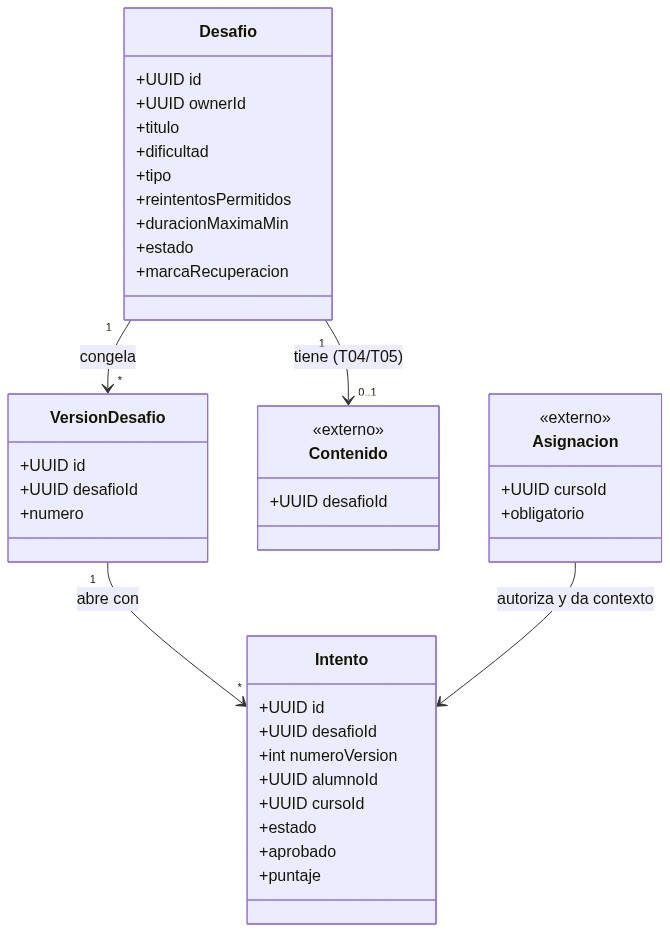
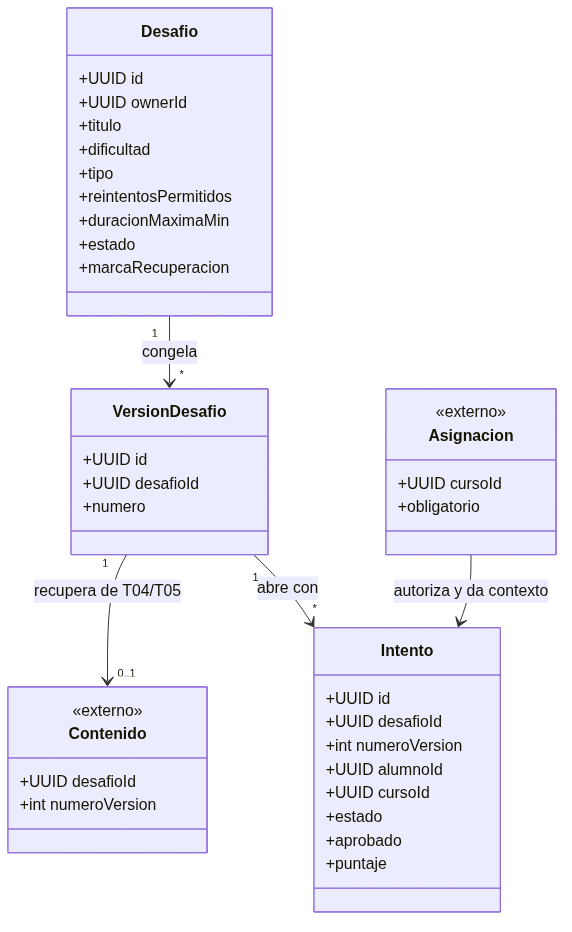
Update roadmap and challenge integration documentation

diff --git a/docs/resumen.html b/docs/resumen.html
@@ -250,9 +250,9 @@
           <thead><tr><th>Grupo</th><th>El grupo entrega al Motor</th><th>El Motor entrega al grupo</th><th>Canal</th><th>Contrato</th></tr></thead>
           <tbody>
             <tr><td>Gateway / Identidad <small>T01</small></td><td>Token validado, identidad y contexto</td><td>Respuestas REST del Motor</td><td>REST a través del Gateway</td><td><details class="dependency-contract"><summary><span class="status ok">Definido</span><span class="contract-action">Ver contrato</span></summary><div class="contract-detail"><p><span class="contract-label">Responsabilidad</span>Valida autenticidad y vigencia del token. Propaga el contexto sin decidir la elegibilidad académica.</p><p><span class="contract-label">Rutas del Motor</span><code>POST /desafios</code>, <code>GET /desafios</code>, <code>PATCH /desafios/{desafioId}</code>, <code>POST /intentos</code>, <code>GET /intentos/{intentoId}</code> y <code>POST /intentos/{intentoId}/entrega</code>.</p><p>Las llamadas sincrónicas entre servicios también pasan por el Gateway.</p></div></details></td></tr>
-            <tr><td>Roadmap y Progreso <small>T10</small></td><td>Elegibilidad, fechas, obligatoriedad y recuperación</td><td>Catálogo publicado y <code>INTENTO_FINALIZADO</code></td><td>REST + Kafka</td><td><details class="dependency-contract"><summary><span class="status ok">Definido</span><span class="contract-action">Ver contrato</span></summary><div class="contract-detail"><p><span class="contract-label">Motor consulta</span><code>GET /elegibilidad</code> con <code>alumnoId</code>, <code>desafioId</code> y <code>cursoId</code>. Recibe habilitación, desbloqueo, fechas, obligatoriedad, recuperación y motivo de rechazo.</p><p><span class="contract-label">Motor entrega</span><code>GET /desafios?estado=PUBLICADO</code> y el evento <code>INTENTO_FINALIZADO</code>. Roadmap aplica XP, vidas, progreso, ranking y reintentos.</p><p>La clave funcional del resultado es <code>intentoId</code>.</p></div></details></td></tr>
-            <tr><td>Teóricos <small>T04</small></td><td>Corrección de entregas teóricas</td><td>Referencia de versión y entrega</td><td>REST a través del Gateway</td><td><details class="dependency-contract"><summary><span class="status ok">Definido</span><span class="contract-action">Ver contrato</span></summary><div class="contract-detail"><p><span class="contract-label">Corrección</span>El Motor envía <code>intentoId</code>, desafío, versión, alumno, curso y entrega. T04 devuelve <code>estadoCorreccion</code>, <code>aprobado</code> y <code>puntaje</code>.</p><p>T04 corrige contra la versión recibida, no contra la vigente.</p></div></details></td></tr>
-            <tr><td>Prácticos <small>T05</small></td><td>Corrección de entregas prácticas</td><td>Referencia de versión y entrega</td><td>REST a través del Gateway</td><td><details class="dependency-contract"><summary><span class="status ok">Definido</span><span class="contract-action">Ver contrato</span></summary><div class="contract-detail"><p><span class="contract-label">Corrección</span>El Motor envía <code>intentoId</code>, desafío, versión, alumno, curso y entrega. T05 devuelve <code>estadoCorreccion</code>, <code>aprobado</code> y <code>puntaje</code>.</p><p>T05 puede mediar la ejecución en Sandbox, pero el Motor solo recibe la corrección.</p></div></details></td></tr>
+            <tr><td>Roadmap y Progreso <small>T10</small></td><td>Elegibilidad, fechas, obligatoriedad y recuperación</td><td>Catálogo publicado y <code>INTENTO_FINALIZADO</code></td><td>REST + Kafka</td><td><details class="dependency-contract"><summary><span class="status ok">Definido</span><span class="contract-action">Ver contrato</span></summary><div class="contract-detail"><p><span class="contract-label">Roadmap decide</span><code>GET /elegibilidad</code> con <code>alumnoId</code>, <code>desafioId</code> y <code>cursoId</code>. Devuelve habilitación, motivo, desbloqueo, fechas, obligatoriedad y recuperación. La pantalla puede anticipar esta consulta, pero el Motor vuelve a hacerla al abrir.</p><p><span class="contract-label">Motor entrega</span><code>GET /desafios?estado=PUBLICADO</code> y el evento <code>INTENTO_FINALIZADO</code>. Roadmap aplica XP, vidas, progreso, ranking y reintentos.</p><p>Cada <code>desafioId</code> se asigna una sola vez por roadmap.</p></div></details></td></tr>
+            <tr><td>Teóricos <small>T04</small></td><td>Contenido y corrección de entregas teóricas</td><td>Referencia de versión y entrega</td><td>REST a través del Gateway</td><td><details class="dependency-contract"><summary><span class="status ok">Definido</span><span class="contract-action">Ver contrato</span></summary><div class="contract-detail"><p><span class="contract-label">Apertura</span>El Motor recupera el contenido de la versión exacta y lo devuelve junto con el intento.</p><p><span class="contract-label">Corrección</span>El Motor envía <code>intentoId</code>, desafío, versión, alumno, curso y entrega. T04 devuelve <code>estadoCorreccion</code>, <code>aprobado</code> y <code>puntaje</code>.</p></div></details></td></tr>
+            <tr><td>Prácticos <small>T05</small></td><td>Contenido y corrección de entregas prácticas</td><td>Referencia de versión y entrega</td><td>REST a través del Gateway</td><td><details class="dependency-contract"><summary><span class="status ok">Definido</span><span class="contract-action">Ver contrato</span></summary><div class="contract-detail"><p><span class="contract-label">Apertura</span>El Motor recupera el contenido de la versión exacta y lo devuelve junto con el intento.</p><p><span class="contract-label">Corrección</span>El Motor envía <code>intentoId</code>, desafío, versión, alumno, curso y entrega. T05 devuelve <code>estadoCorreccion</code>, <code>aprobado</code> y <code>puntaje</code>.</p></div></details></td></tr>
             <tr><td>Evaluador IA <small>T07</small></td><td><code>SCORE_IA_CALCULADO</code></td><td>Referencia del intento y versión</td><td>Evento, mecanismo por confirmar</td><td><details class="dependency-contract"><summary><span class="status partial">Parcial</span><span class="contract-action">Ver contrato</span></summary><div class="contract-detail"><p><span class="contract-label">Motor recibe</span><code>SCORE_IA_CALCULADO</code> asociado a <code>intentoId</code>. La carga mínima incluye <code>scoreIA</code> y <code>timestamp</code>; <code>rubricVersion</code> y justificación están pendientes.</p><p><span class="contract-label">Después del cierre</span>El Motor actualiza el score y republica <code>INTENTO_FINALIZADO</code> con el mismo <code>intentoId</code>.</p><p>Topic, productor, envío de referencia y política de reintentos todavía deben acordarse con T07.</p></div></details></td></tr>
             <tr><td>Banco <small>T08</small></td><td>No envía solicitudes</td><td><code>INTENTO_FINALIZADO</code></td><td>Kafka</td><td><details class="dependency-contract"><summary><span class="status ok">Definido</span><span class="contract-action">Ver contrato</span></summary><div class="contract-detail"><p><span class="contract-label">Consumo</span>Recibe el sobre común de <code>INTENTO_FINALIZADO</code>, incluidos <code>cursoId</code>, <code>obligatorio</code>, estado y resultado.</p><p><span class="contract-label">Regla</span>Acredita solo si <code>estado=CERRADO</code> y <code>aprobado=true</code>. Ignora los intentos vencidos o no aprobados.</p><p>Aplica idempotencia por <code>intentoId</code>.</p></div></details></td></tr>
             <tr><td>Social y Notificaciones <small>T11</small></td><td>No envía solicitudes de negocio</td><td><code>DESAFIO_PUBLICADO</code> e <code>INTENTO_FINALIZADO</code></td><td>Kafka</td><td><details class="dependency-contract"><summary><span class="status ok">Definido</span><span class="contract-action">Ver contrato</span></summary><div class="contract-detail"><p><span class="contract-label">Consumo</span>Recibe <code>DESAFIO_PUBLICADO</code> al publicar y <code>INTENTO_FINALIZADO</code> al cerrar o vencer.</p><p><span class="contract-label">Regla</span>Decide plantilla, destinatarios y momento. La nota disponible se deriva de <code>INTENTO_FINALIZADO</code>; no hay un evento separado.</p><p>El Motor publica al menos una vez mediante outbox.</p></div></details></td></tr>
@@ -262,14 +262,15 @@
     </section>
 
     <section id="decisiones">
-      <div class="section-head"><h2>Decisiones del Motor</h2><span class="section-index">6 reglas</span></div>
+      <div class="section-head"><h2>Decisiones del Motor</h2><span class="section-index">7 reglas</span></div>
       <ol class="decision-list">
-        <li><span class="number">01</span><div><strong>Roadmap autoriza.</strong><p>Asignaciones, fechas, desbloqueos, vidas y reintentos quedan fuera de T03.</p></div></li>
-        <li><span class="number">02</span><div><strong>La versión se congela al abrir.</strong><p>Cada edición crea una versión nueva y el intento conserva la que recibió.</p></div></li>
-        <li><span class="number">03</span><div><strong>El reloj se frena al entregar.</strong><p>La demora del corrector o del evaluador no consume tiempo del alumno.</p></div></li>
-        <li><span class="number">04</span><div><strong>T03 no calcula recompensas.</strong><p>Roadmap decide XP y vidas. Banco decide monedas.</p></div></li>
-        <li><span class="number">05</span><div><strong>Un hecho, un evento.</strong><p><code>INTENTO_FINALIZADO</code> cubre cierres y vencimientos. No hay eventos separados para vidas o notas.</p></div></li>
-        <li><span class="number">06</span><div><strong>Kafka entrega al menos una vez.</strong><p>T03 usa outbox y los consumidores aplican idempotencia por <code>intentoId</code>.</p></div></li>
+        <li><span class="number">01</span><div><strong>Roadmap decide; el Motor exige.</strong><p>Asignaciones, fechas, desbloqueos, vidas y reintentos quedan fuera de T03.</p></div></li>
+        <li><span class="number">02</span><div><strong>El Motor entrega el contenido.</strong><p>Recupera de T04/T05 la versión exacta antes de crear el intento; el frontend no consulta al corrector.</p></div></li>
+        <li><span class="number">03</span><div><strong>La versión se congela al abrir.</strong><p>Cada edición crea una versión nueva y el intento conserva la que recibió.</p></div></li>
+        <li><span class="number">04</span><div><strong>El reloj se frena al entregar.</strong><p>La demora del corrector o del evaluador no consume tiempo del alumno.</p></div></li>
+        <li><span class="number">05</span><div><strong>T03 no calcula recompensas.</strong><p>Roadmap decide XP y vidas. Banco decide monedas.</p></div></li>
+        <li><span class="number">06</span><div><strong>Un hecho, un evento.</strong><p><code>INTENTO_FINALIZADO</code> cubre cierres y vencimientos. No hay eventos separados para vidas o notas.</p></div></li>
+        <li><span class="number">07</span><div><strong>Kafka entrega al menos una vez.</strong><p>T03 usa outbox y los consumidores aplican idempotencia por <code>intentoId</code>.</p></div></li>
       </ol>
     </section>
 
@@ -281,8 +282,8 @@
     G --&gt; M[Motor T03]
     M --&gt;|consulta elegibilidad| R[Roadmap]
     R --&gt;|contexto| M
-    M --&gt;|corrección| C[T04 / T05]
-    C --&gt;|resultado| M
+    M --&gt;|contenido y entrega| C[T04 / T05]
+    C --&gt;|contenido y corrección| M
     M --&gt;|hechos| K[(Kafka)]
     K --&gt; R
     K --&gt; B[Banco]
@@ -359,8 +360,8 @@
     <section id="contratos">
       <div class="section-head"><h2>Contratos de entrada y salida</h2></div>
       <div class="grid">
-        <article class="card"><span class="tag in">Entrada</span><h3>Roadmap autoriza</h3><p>Antes de abrir, devuelve habilitación, desbloqueo, fechas, obligatoriedad y contexto de recuperación. El Motor no guarda la asignación ni vidas.</p></article>
-        <article class="card"><span class="tag in">Entrada</span><h3>T04 / T05 corrigen</h3><p>Reciben entrega, intento, desafío y versión. Devuelven aprobado, puntaje y estado de corrección. El contenido permanece fuera del Motor.</p></article>
+        <article class="card"><span class="tag in">Entrada</span><h3>Roadmap decide</h3><p>Antes de abrir, devuelve habilitación, motivo, desbloqueo, fechas, obligatoriedad y contexto de recuperación. El Motor exige esa decisión y no guarda la asignación ni vidas.</p></article>
+        <article class="card"><span class="tag in">Entrada</span><h3>T04 / T05 entregan contenido y corrigen</h3><p>El Motor recupera el contenido exacto al abrir. Al entregar, los correctores reciben intento, desafío y versión, y devuelven el resultado. El contenido permanece fuera del Motor.</p></article>
         <article class="card"><span class="tag pending">Entrada parcial</span><h3>T07 puntúa IA</h3><p>Entrega un score asociado a <code>intentoId</code>. Puede llegar después del cierre; el nombre del evento y su esquema todavía se acuerdan.</p></article>
         <article class="card"><span class="tag out">Salida</span><h3>Roadmap consume hechos</h3><p><code>INTENTO_FINALIZADO</code> alimenta XP, progreso, vidas, ranking y desbloqueos. No existe evento de reintentos agotados.</p></article>
         <article class="card"><span class="tag out">Salida</span><h3>Banco acredita</h3><p>Usa el resultado aprobado, <code>cursoId</code> y <code>obligatorio</code> para su ledger. El Motor no calcula monedas ni envía ítems.</p></article>
@@ -373,19 +374,25 @@
 
       <article class="flow">
         <div class="flow-title"><h3>Crear y publicar un desafío</h3><span class="number">FLUJO 01</span></div>
-        <p class="flow-note">T03 crea la identidad y su primera versión. Luego publica la versión y avisa a los consumidores.</p>
+        <p class="flow-note">El frontend guarda los datos generales en T03 y el contenido en T04/T05 usando el mismo desafioId y número de versión. Luego T03 publica.</p>
         <pre class="mermaid">sequenceDiagram
     participant P as Profesor/Admin
     participant G as Gateway
     participant M as Motor
+    participant C as T04/T05
     participant K as Kafka
     participant R as Roadmap
     participant N as Notificaciones
     P-&gt;&gt;G: Crear desafío
     G-&gt;&gt;M: POST /desafios
     M--&gt;&gt;P: BORRADOR + desafioId + version 1
+    P-&gt;&gt;G: Guardar contenido con desafioId + version 1
+    G-&gt;&gt;C: PUT contenido de versión 1
+    C--&gt;&gt;P: Contenido guardado
     P-&gt;&gt;G: Solicitar publicación de versión 1
     G-&gt;&gt;M: POST /desafios/id/versiones/1/publicar
+    M-&gt;&gt;C: Validar contenido de versión 1
+    C--&gt;&gt;M: Disponible
     M-&gt;&gt;M: Activar versión 1
     M-&gt;&gt;K: DESAFIO_PUBLICADO
     K--&gt;&gt;N: Notificación
@@ -396,6 +403,7 @@
         <div class="sequence">
           <div class="step"><span class="actor">Profesor / Admin</span><span class="message"><span class="arrow">→</span>Crear desafío</span><span class="actor right">Motor</span></div>
           <div class="step"><span class="actor">Motor</span><span class="message reverse">BORRADOR + desafioId + versión 1 <span class="arrow">←</span></span><span class="actor right">Profesor / Admin</span></div>
+          <div class="step"><span class="actor">Profesor / Admin</span><span class="message"><span class="arrow">→</span>Guardar contenido con desafioId + versión 1</span><span class="actor right">T04 / T05</span></div>
           <div class="step"><span class="actor">Profesor / Admin</span><span class="message"><span class="arrow">→</span>Publicar versión 1</span><span class="actor right">Motor</span></div>
           <div class="step"><span class="actor">Motor</span><span class="message internal"><span class="arrow">·</span>Activar versión 1 <span class="arrow">·</span></span><span class="actor right">Motor</span></div>
           <div class="step"><span class="actor">Motor</span><span class="message"><span class="arrow">→</span>DESAFIO_PUBLICADO</span><span class="actor right">Kafka → T11</span></div>
@@ -411,18 +419,25 @@
     participant P as Profesor/Admin
     participant G as Gateway
     participant M as Motor
+    participant C as T04/T05
     P-&gt;&gt;G: Editar metadatos
     G-&gt;&gt;M: PATCH /desafios/id
     M-&gt;&gt;M: Crear revisión N+1 en BORRADOR
     M--&gt;&gt;P: desafioId + numeroVersion N+1
+    P-&gt;&gt;G: Guardar contenido de N+1
+    G-&gt;&gt;C: PUT contenido de N+1
+    C--&gt;&gt;P: Contenido guardado
     P-&gt;&gt;G: Solicitar publicación de versión N+1
     G-&gt;&gt;M: POST /desafios/id/versiones/N+1/publicar
+    M-&gt;&gt;C: Validar contenido de N+1
+    C--&gt;&gt;M: Disponible
     M-&gt;&gt;M: Activar N+1
     Note over M,P: Los intentos anteriores conservan su versión</pre>
         <div class="sequence">
           <div class="step"><span class="actor">Profesor / Admin</span><span class="message"><span class="arrow">→</span>Editar metadatos</span><span class="actor right">Motor</span></div>
           <div class="step"><span class="actor">Motor</span><span class="message internal"><span class="arrow">·</span>Crear revisión N+1 en borrador <span class="arrow">·</span></span><span class="actor right">Motor</span></div>
           <div class="step"><span class="actor">Motor</span><span class="message reverse">Devolver desafioId + versión N+1 <span class="arrow">←</span></span><span class="actor right">Profesor / Admin</span></div>
+          <div class="step"><span class="actor">Profesor / Admin</span><span class="message"><span class="arrow">→</span>Guardar contenido de N+1</span><span class="actor right">T04 / T05</span></div>
           <div class="step"><span class="actor">Profesor / Admin</span><span class="message"><span class="arrow">→</span>Publicar versión N+1</span><span class="actor right">Motor</span></div>
           <div class="step"><span class="actor">Motor</span><span class="message internal"><span class="arrow">·</span>Activar N+1; los intentos anteriores no cambian <span class="arrow">·</span></span><span class="actor right">Motor</span></div>
         </div>
@@ -430,12 +445,13 @@
 
       <article class="flow">
         <div class="flow-title"><h3>Abrir un intento autorizado</h3><span class="number">FLUJO 03</span></div>
-        <p class="flow-note">El Gateway autentica. Roadmap autoriza. El Motor congela <code>version_actual</code> y crea el intento, con idempotencia.</p>
+        <p class="flow-note">Roadmap decide si el alumno puede abrir. El Motor recupera el contenido exacto y solo entonces crea el intento e inicia el reloj.</p>
         <pre class="mermaid">sequenceDiagram
     participant A as Alumno
     participant G as Gateway
     participant M as Motor
     participant R as Roadmap
+    participant C as T04/T05
     A-&gt;&gt;G: desafioId, cursoId, clave
     G-&gt;&gt;M: POST /intentos + identidad
     M-&gt;&gt;G: Consultar elegibilidad
@@ -443,9 +459,12 @@
     R--&gt;&gt;G: Habilitación, fechas y contexto
     G--&gt;&gt;M: Respuesta de Roadmap
     alt Habilitado
-        M-&gt;&gt;M: Congelar version_actual
-        M-&gt;&gt;M: Crear intento ABIERTO
-        M--&gt;&gt;A: Intento abierto
+        M-&gt;&gt;G: Recuperar contenido de version_actual
+        G-&gt;&gt;C: GET contenido de la versión
+        C--&gt;&gt;G: Contenido exacto
+        G--&gt;&gt;M: Contenido exacto
+        M-&gt;&gt;M: Congelar versión y crear ABIERTO
+        M--&gt;&gt;A: Intento abierto + contenido
     else Rechazado
         M--&gt;&gt;A: Motivo de rechazo
     end</pre>
@@ -456,8 +475,9 @@
           <div class="step"><span class="actor">Gateway</span><span class="message"><span class="arrow">→</span>GET /elegibilidad</span><span class="actor right">Roadmap</span></div>
           <div class="step"><span class="actor">Roadmap</span><span class="message reverse">Habilitación, fechas, contexto <span class="arrow">←</span></span><span class="actor right">Gateway</span></div>
           <div class="step"><span class="actor">Gateway</span><span class="message reverse">Respuesta de Roadmap <span class="arrow">←</span></span><span class="actor right">Motor</span></div>
+          <div class="step"><span class="actor">Motor</span><span class="message"><span class="arrow">→</span>Recuperar contenido de la versión</span><span class="actor right">T04 / T05</span></div>
           <div class="step"><span class="actor">Motor</span><span class="message internal"><span class="arrow">·</span>Congelar versión y crear ABIERTO <span class="arrow">·</span></span><span class="actor right">Motor</span></div>
-          <div class="step"><span class="actor">Motor</span><span class="message reverse">Intento abierto <span class="arrow">←</span></span><span class="actor right">Alumno</span></div>
+          <div class="step"><span class="actor">Motor</span><span class="message reverse">Intento abierto + contenido <span class="arrow">←</span></span><span class="actor right">Alumno</span></div>
         </div>
       </article>
 
@@ -536,6 +556,7 @@
     participant G as Gateway
     participant M as Motor
     participant R as Roadmap
+    participant C as T04/T05
     participant K as Kafka
     R-&gt;&gt;R: Contar intentos y elegir recuperación
     A-&gt;&gt;G: Abrir nuevo intento
@@ -544,8 +565,12 @@
     G-&gt;&gt;R: Estado de vidas y reintentos
     R--&gt;&gt;G: Autorizado + contexto
     G--&gt;&gt;M: Autorizado + contexto
+    M-&gt;&gt;G: Recuperar contenido de la versión
+    G-&gt;&gt;C: GET contenido exacto
+    C--&gt;&gt;G: Contenido
+    G--&gt;&gt;M: Contenido
     M-&gt;&gt;M: Crear intento nuevo
-    M--&gt;&gt;A: Intento abierto
+    M--&gt;&gt;A: Intento abierto + contenido
     M-&gt;&gt;K: INTENTO_FINALIZADO
     K--&gt;&gt;R: Aplicar efecto en XP, vidas y progreso</pre>
         <div class="sequence">
@@ -555,6 +580,7 @@
           <div class="step"><span class="actor">Gateway</span><span class="message"><span class="arrow">→</span>Estado de vidas y reintentos</span><span class="actor right">Roadmap</span></div>
           <div class="step"><span class="actor">Roadmap</span><span class="message reverse">Autorizado + contexto <span class="arrow">←</span></span><span class="actor right">Gateway</span></div>
           <div class="step"><span class="actor">Gateway</span><span class="message reverse">Autorizado + contexto <span class="arrow">←</span></span><span class="actor right">Motor</span></div>
+          <div class="step"><span class="actor">Motor</span><span class="message"><span class="arrow">→</span>Recuperar contenido de la versión</span><span class="actor right">Gateway → T04 / T05</span></div>
           <div class="step"><span class="actor">Motor</span><span class="message internal"><span class="arrow">·</span>Crea intento nuevo con reloj propio <span class="arrow">·</span></span><span class="actor right">Motor</span></div>
           <div class="step"><span class="actor">Motor</span><span class="message"><span class="arrow">→</span>Resultado finalizado</span><span class="actor right">Kafka → Roadmap</span></div>
           <div class="step"><span class="actor">Roadmap</span><span class="message internal"><span class="arrow">·</span>Acredita una vida si el desafío de recuperación fue aprobado <span class="arrow">·</span></span><span class="actor right">Roadmap</span></div>

diff --git a/docs/flujos.md b/docs/flujos.md
@@ -13,8 +13,8 @@ Este documento define los recorridos completos que cruzan el Motor y el contrato
 | Gateway / Identidad (T01) | Token validado y contexto de usuario en cada solicitud | Respuestas REST del Motor | REST, siempre por Gateway | Definido |
 | Cursos y Matrícula (T02) | No hay llamada directa en el MVP | No hay evento directo | Indirecto a través de Roadmap | Definido |
 | Roadmap y Progreso (T10) | Elegibilidad para abrir o reintentar; fechas y obligatoriedad | Desafíos publicados por GET; resultado de cada intento por evento | REST sincrónico + Kafka | Definido |
-| Teóricos (T04) | Confirmación de contenido; corrección de entregas teóricas | Entrega con respuestas y versión | REST sincrónico por Gateway | Definido |
-| Prácticos (T05) | Confirmación de contenido; corrección de entregas prácticas | Entrega, referencia y versión | REST sincrónico por Gateway | Definido |
+| Teóricos (T04) | Contenido de la versión; confirmación de contenido; corrección de entregas teóricas | Consulta de contenido; entrega con respuestas y versión | REST sincrónico por Gateway | Definido |
+| Prácticos (T05) | Contenido de la versión; confirmación de contenido; corrección de entregas prácticas | Consulta de contenido; entrega, referencia y versión | REST sincrónico por Gateway | Definido |
 | Evaluador IA (T07) | Score de uso de IA calculado o diferido | Identidad del intento y versión para asociar la evaluación | Evento; mecanismo exacto por confirmar | Parcial |
 | Banco (T08) | No hay llamada directa | Resultado aprobado, obligatoriedad y curso | Kafka | Definido |
 | Mercado (T09) | No hay llamada directa | Ninguna | Sin integración | Definido |
@@ -28,7 +28,7 @@ El Gateway autentica y propaga el token; no decide si el alumno puede abrir un d
 
 ### Roadmap: autorización y contexto de apertura
 
-Antes de crear un intento, el Motor necesita una respuesta de elegibilidad para la combinación alumno, desafío y curso. La respuesta debe incluir:
+Antes de crear un intento, el Motor necesita una respuesta de elegibilidad para la combinación alumno, desafío y curso. Roadmap decide y el Motor hace cumplir esa decisión; el Motor no replica las reglas académicas. La pantalla de Roadmap puede consultar la misma elegibilidad para mostrar feedback, pero esa consulta no reemplaza la validación vigente que hace el Motor al abrir. La respuesta debe incluir:
 
 - habilitación para abrir;
 - motivo de rechazo, si corresponde;
@@ -38,9 +38,13 @@ Antes de crear un intento, el Motor necesita una respuesta de elegibilidad para 
 - contexto de recuperación, si aplica;
 - información necesaria para que Roadmap cuente reintentos y vidas, sin que el Motor los modifique.
 
-El Motor no guarda la asignación, el roadmap, la pertenencia del alumno ni el saldo de vidas. Replica únicamente `cursoId`, `obligatorio` y las marcas necesarias en el intento y en sus eventos.
+La decisión no puede ser solo un booleano: debe incluir un código estable cuando rechaza. El Motor no guarda la asignación, el roadmap, la pertenencia del alumno ni el saldo de vidas. Replica únicamente `cursoId`, `obligatorio` y las marcas necesarias en el intento y en sus eventos.
+
+Dentro de cada roadmap, Roadmap debe garantizar que un `desafioId` se asigne una sola vez. La unicidad es `(roadmapId, desafioId)` y no se implementa en el Motor.
 
 ### Teórico y Práctico: contenido y corrección
+
+Al abrir, el Motor recupera desde T04 o T05 el contenido exacto de la versión autorizada y lo devuelve al frontend junto con el intento. El frontend no consulta directamente al corrector y el Motor no persiste ese contenido. Si no puede recuperarlo, no crea el intento ni inicia el reloj.
 
 Al publicar un desafío, el Motor consulta al servicio correspondiente según `tipo`:
 
@@ -81,7 +85,7 @@ Notificaciones necesita los hechos `DESAFIO_PUBLICADO` e `INTENTO_FINALIZADO` pa
 
 ### Teórico y Práctico
 
-Los correctores necesitan la referencia estable del desafío y la versión congelada para recuperar o validar el contenido correspondiente. También necesitan la entrega y el contexto mínimo del intento para devolver un veredicto idempotente.
+Los correctores entregan al Motor el contenido visible para el alumno de la versión solicitada. También necesitan la referencia estable del desafío, la versión congelada, la entrega y el contexto mínimo del intento para devolver un veredicto idempotente.
 
 ### Evaluador IA
 
@@ -123,7 +127,7 @@ sequenceDiagram
     end
 ```
 
-Crear el desafío y cargar su contenido son pasos separados: T03 entrega el `desafioId` y el `numeroVersion`, y el autor usa ambos identificadores para crear las preguntas teóricas o la consigna y los tests prácticos en T04/T05. La publicación valida que exista esa foto exacta antes de entrar al camino de apertura de alumnos. Roadmap no necesita suscribirse: obtiene el catálogo mediante GET cuando arma o consulta el roadmap.
+En simple, el profesor completa una pantalla, pero el frontend guarda dos partes. Primero manda los datos generales al Motor y recibe `desafioId` + `numeroVersion`; después manda preguntas o código a T04/T05 usando esos mismos valores. No existe otro `contenidoId`. La publicación valida que exista esa foto exacta antes de entrar al camino de apertura de alumnos. Roadmap no necesita suscribirse: obtiene el catálogo mediante GET cuando arma o consulta el roadmap.
 
 ### 2. Editar y sincronizar una versión publicada
 
@@ -162,25 +166,30 @@ sequenceDiagram
     participant G as Gateway
     participant M as Motor
     participant R as Roadmap
+    participant C as T04/T05
 
     A->>G: Abrir intento (desafioId, cursoId, idempotencyKey)
     G->>M: POST /intentos + identidad validada
     M->>G: Consultar elegibilidad
     G->>R: GET /elegibilidad
-    R-->>G: habilitado, fechas, obligatorio, recuperación
-    G-->>M: Contexto de apertura
+    R-->>G: habilitado, motivo, fechas, obligatorio, recuperación
+    G-->>M: Decisión y contexto de apertura
     alt habilitado
-        M->>M: Lee version_actual y congela la versión
-        M->>M: Crea intento ABIERTO con reloj propio
-        M-->>G: Intento abierto
-        G-->>A: intentoId, versión y vencimiento
+        M->>M: Lee version_actual
+        M->>G: Pedir contenido de esa versión
+        G->>C: GET contenido(desafioId, numeroVersion)
+        C-->>G: Contenido teórico o práctico
+        G-->>M: Contenido exacto
+        M->>M: Crea intento ABIERTO y congela la versión
+        M-->>G: Intento abierto + contenido
+        G-->>A: intentoId, contenido y vencimiento
     else rechazado
         M-->>G: Motivo de rechazo
         G-->>A: No se crea intento
     end
 ```
 
-La clave de idempotencia devuelve el intento existente ante un reintento de red. Si Roadmap no autoriza, el Motor no adivina permisos ni crea un intento parcial.
+En simple: el alumno pide empezar; Roadmap dice si puede; el Motor busca el contenido correcto; recién entonces crea el intento, inicia el reloj y devuelve todo. El frontend habla solo con el Motor. La clave de idempotencia devuelve el intento existente ante un reintento de red. Si Roadmap no autoriza o T04/T05 no entrega el contenido, el Motor no crea un intento parcial.
 
 ### 4. Entregar y corregir un intento teórico o práctico
 
@@ -241,6 +250,7 @@ sequenceDiagram
     participant R as Roadmap
     participant G as Gateway
     participant M as Motor
+    participant C as T04/T05
     participant K as Kafka
 
     R->>R: Cuenta intentos y evalúa vidas
@@ -249,8 +259,10 @@ sequenceDiagram
     M->>G: Consulta elegibilidad
     G->>R: Estado de desbloqueo, vidas y reintentos
     R-->>M: Autorizado + contexto
+    M->>C: Recupera contenido de la versión
+    C-->>M: Contenido exacto
     M->>M: Crea un intento nuevo con reloj propio
-    M-->>A: Intento abierto
+    M-->>A: Intento abierto + contenido
     M->>K: INTENTO_FINALIZADO al cerrar
     K-->>R: Decide efecto en XP, vidas y progreso
 ```

diff --git a/docs/arquitectura.md b/docs/arquitectura.md
@@ -12,7 +12,7 @@ El Motor responde dos preguntas y nada más: qué desafíos existen y qué inten
 
 Un dato, un dueño. Las fechas, la obligatoriedad y las vidas las decide Roadmap. El Motor las lee y las replica en sus eventos, nunca las guarda como propias. Así no hay sincronización que mantener ni dos versiones de la verdad.
 
-Sincrónico para decidir, evento para avisar. Si el Motor necesita la respuesta para seguir (¿puede abrir?, ¿aprobó?), llama por el gateway y espera. Si solo cuenta algo que ya pasó (intento cerrado), publica y sigue. Nadie lo bloquea.
+Sincrónico para decidir, evento para avisar. Si el Motor necesita la respuesta para seguir (¿puede abrir?, ¿cuál es el contenido exacto?, ¿aprobó?), llama por el gateway y espera. Si solo cuenta algo que ya pasó (intento cerrado), publica y sigue. Nadie lo bloquea.
 
 Replicar en el evento, no consultar después. Cada evento de intento cerrado lleva el contexto completo: curso, obligatorio, puntualidad, corrección y score IA. Los consumidores no vuelven a preguntar y el historial queda autocontenido.
 
@@ -20,7 +20,7 @@ Replicar en el evento, no consultar después. Cada evento de intento cerrado lle
 
 API REST. Expone catálogo e intentos detrás del gateway. Valida identidad por token y delega las reglas de negocio al núcleo. No habla directo con otros servicios: sale por el gateway como cualquier cliente.
 
-Núcleo de intentos. Abre, entrega, cierra y vence intentos. Controla el cronómetro, congela la versión del desafío al abrir y marca puntualidad con las fechas que trae el contexto de Roadmap.
+Núcleo de intentos. Abre, entrega, cierra y vence intentos. Antes de abrir exige la decisión de Roadmap y recupera el contenido exacto desde T04/T05; solo entonces inicia el cronómetro y congela la versión. También marca puntualidad con las fechas que trae el contexto de Roadmap.
 
 Publicador de eventos. Emite un evento por intento cerrado más hechos para notificaciones (desafío publicado, nota disponible). No reintenta eternamente: si el bus cae, el intento ya está cerrado en base y el evento sale al recuperarse.
 
@@ -31,15 +31,16 @@ Postgres propia. Tres tablas (desafío, versión, intento) que nadie más toca. 
 | Con quién | Tipo | Qué viaja |
 |---|---|---|
 | Gateway | REST sincrónico | Única entrada. Comandos y consultas del Motor |
-| Roadmap/Cursos | REST vía gateway | Elegibilidad antes de abrir (desbloqueo, vidas) y contexto a replicar |
-| Teórico/Práctico | REST vía gateway | Entrega con versión del desafío a la ida, corrección a la vuelta |
+| Roadmap/Cursos | REST vía gateway | Decisión de elegibilidad antes de abrir (desbloqueo, vidas) y contexto a replicar |
+| Teórico/Práctico | REST vía gateway | Contenido exacto al abrir; entrega con versión a la ida y corrección a la vuelta |
 | Evaluador IA | Eventos | Score de uso de IA atado al intento |
 | Banco | Eventos | Resultado aprobado con marca de obligatorio para acreditar monedas |
 | Notificaciones | Eventos | Desafío publicado y nota disponible para notificar |
 
 ## Decisiones clave
 
-- La asignación no se guarda acá, solo se replica su contexto. Evita drifts cuando Roadmap edita el roadmap. `adr/0001-no-asignacion-storage.md`
+- La asignación no se guarda acá, solo se replica su contexto. Evita desajustes cuando Roadmap edita el roadmap. `adr/0001-no-asignacion-storage.md`
+- El Motor recupera el contenido exacto y lo entrega junto con el intento. El frontend no consulta T04/T05. `adr/0009-motor-entrega-contenido-al-abrir.md`
 - Un evento por intento cerrado, sin evento de agotados. Roadmap deduce el agotamiento con los resultados. `adr/0002-evento-por-intento.md`
 - El Motor no calcula nada, publica datos. La economía se ajusta en un solo lugar. `adr/0003-motor-no-calcula.md`
 - Cada intento congela su versión. Editar no rompe lo que está en curso. `adr/0004-intentos-conservan-version.md`

diff --git a/docs/modelo-dominio.md b/docs/modelo-dominio.md
@@ -30,7 +30,7 @@ Cada edición, hasta un typo o un cambio en el contenido evaluable, crea una rev
 
 ## Intento
 
-Apertura de un desafío por un alumno en un curso. Guarda inicio, entrega, tiempo en segundos, estado y puntualidad, más el contexto replicado (curso, obligatorio). Pasa por abierto, en corrección, cerrado o vencido. El reloj corre solo en abierto: se frena al entregar y la demora del corrector no cuenta. Cada reintento es un intento nuevo con reloj propio. Vencido es plazo cerrado sin entrega: se publica igual y Roadmap decide el efecto.
+Apertura de un desafío por un alumno en un curso. Roadmap decide la elegibilidad y el Motor la hace cumplir. Después, el Motor recupera de T04/T05 el contenido de la versión elegida; solo si lo obtiene crea el intento, inicia el reloj y devuelve ambos al alumno. Guarda inicio, entrega, tiempo en segundos, estado y puntualidad, más el contexto replicado (curso, obligatorio), pero no persiste el contenido. Pasa por abierto, en corrección, cerrado o vencido. El reloj corre solo en abierto: se frena al entregar y la demora del corrector no cuenta. Cada reintento es un intento nuevo con reloj propio. Vencido es plazo cerrado sin entrega: se publica igual y Roadmap decide el efecto.
 
 ## Corrección y score IA
 
@@ -42,11 +42,13 @@ No nos tocan. Viven en Mercado con estados activo e inactivo, y cada consumidor 
 
 ## Lo referenciado
 
-Asignación (orden, fechas, obligatoriedad) de Roadmap. Contenido teórico de T04 y práctico de T05: la referencia vive del otro lado, ellos guardan nuestro desafioId y nosotros nada de ellos. Por eso el Desafío nace primero acá. XP, monedas y vidas de Roadmap y Banco: el Motor solo publica los hechos que los disparan.
+Asignación (orden, fechas, obligatoriedad) de Roadmap, única por pareja roadmap-desafío. Contenido teórico de T04 y práctico de T05: la referencia vive del otro lado, ellos guardan nuestro `desafioId` + `numeroVersion`; el Motor lo recupera al abrir pero no lo persiste. Por eso el Desafío nace primero acá. XP, monedas y vidas de Roadmap y Banco: el Motor solo publica los hechos que los disparan.
 
 ## Invariantes
 
-- Sin elegibilidad de Roadmap no se abre.
+- Roadmap decide la elegibilidad y el Motor la exige antes de abrir.
+- Si el contenido exacto no puede recuperarse, no se crea el intento ni se inicia el reloj.
+- Un mismo desafío aparece como máximo una vez en cada roadmap.
 - Borrador no se asigna, borrado no se asigna ni se edita.
 - Un intento apunta a una sola versión y no la cambia.
 - Cerrado y vencido son finales: no aceptan entregas ni ediciones.

diff --git a/CONTEXT.md b/CONTEXT.md
@@ -75,8 +75,12 @@ _Evitar_: Copia, Snapshot
 ### Referenciado, no propio
 
 **Asignación**:
-Unión entre un desafío y el roadmap de un curso (orden, fechas, obligatoriedad). Roadmap/Cursos la definen, el Motor nunca la guarda.
+Unión única entre un desafío y el roadmap de un curso (orden, fechas, obligatoriedad). Un mismo desafío aparece como máximo una vez en cada roadmap; Roadmap/Cursos define la asignación y el Motor nunca la guarda.
 _Evitar_: Desafío de curso
+
+**Elegibilidad**:
+Decisión de Roadmap sobre si un alumno puede abrir un desafío asignado en un curso, acompañada por el motivo y el contexto de la asignación.
+_Evitar_: Permiso del Motor, Desbloqueo
 
 **Obligatorio**:
 Atributo de la asignación que dice si el desafío es obligatorio en ese curso. Roadmap lo decide, el Motor solo lo replica en eventos.

diff --git a/docs/adr/0001-no-asignacion-storage.md b/docs/adr/0001-no-asignacion-storage.md
@@ -1,5 +1,5 @@
 # El Motor no guarda la asignación
 
-Roadmap/Cursos unen cada desafío con su curso (orden, fechas, obligatorio). El Motor consulta elegibilidad y desbloqueo antes de abrir un intento y replica ese contexto en sus eventos. No guarda copia.
+Roadmap/Cursos unen cada desafío con su curso (orden, fechas, obligatorio). Roadmap decide la elegibilidad completa; el Motor exige esa decisión antes de abrir un intento y replica su contexto en los eventos. No guarda copia ni vuelve a implementar las reglas de Roadmap.
 
 Evaluamos guardar una copia para validar en local y la descartamos. Duplica la propiedad y se desfasa cuando Roadmap edita el roadmap. Suma sincronización por datos que el Motor nunca decide.

diff --git a/docs/adr/0009-motor-entrega-contenido-al-abrir.md b/docs/adr/0009-motor-entrega-contenido-al-abrir.md
@@ -1,0 +1,5 @@
+# El Motor entrega el contenido al abrir
+
+Al abrir un intento, el Motor consulta la elegibilidad en Roadmap y recupera desde T04 o T05 el contenido de la versión que va a congelar. Solo entonces crea el intento, inicia el reloj y devuelve al frontend el intento junto con el contenido. El Motor no persiste ni interpreta ese contenido.
+
+Descartamos que el frontend consulte directamente al corrector porque obligaría a repetir allí la autorización del intento y podría exponer contenido bloqueado. También evita iniciar el reloj cuando el corrector no logra entregar el contenido.
